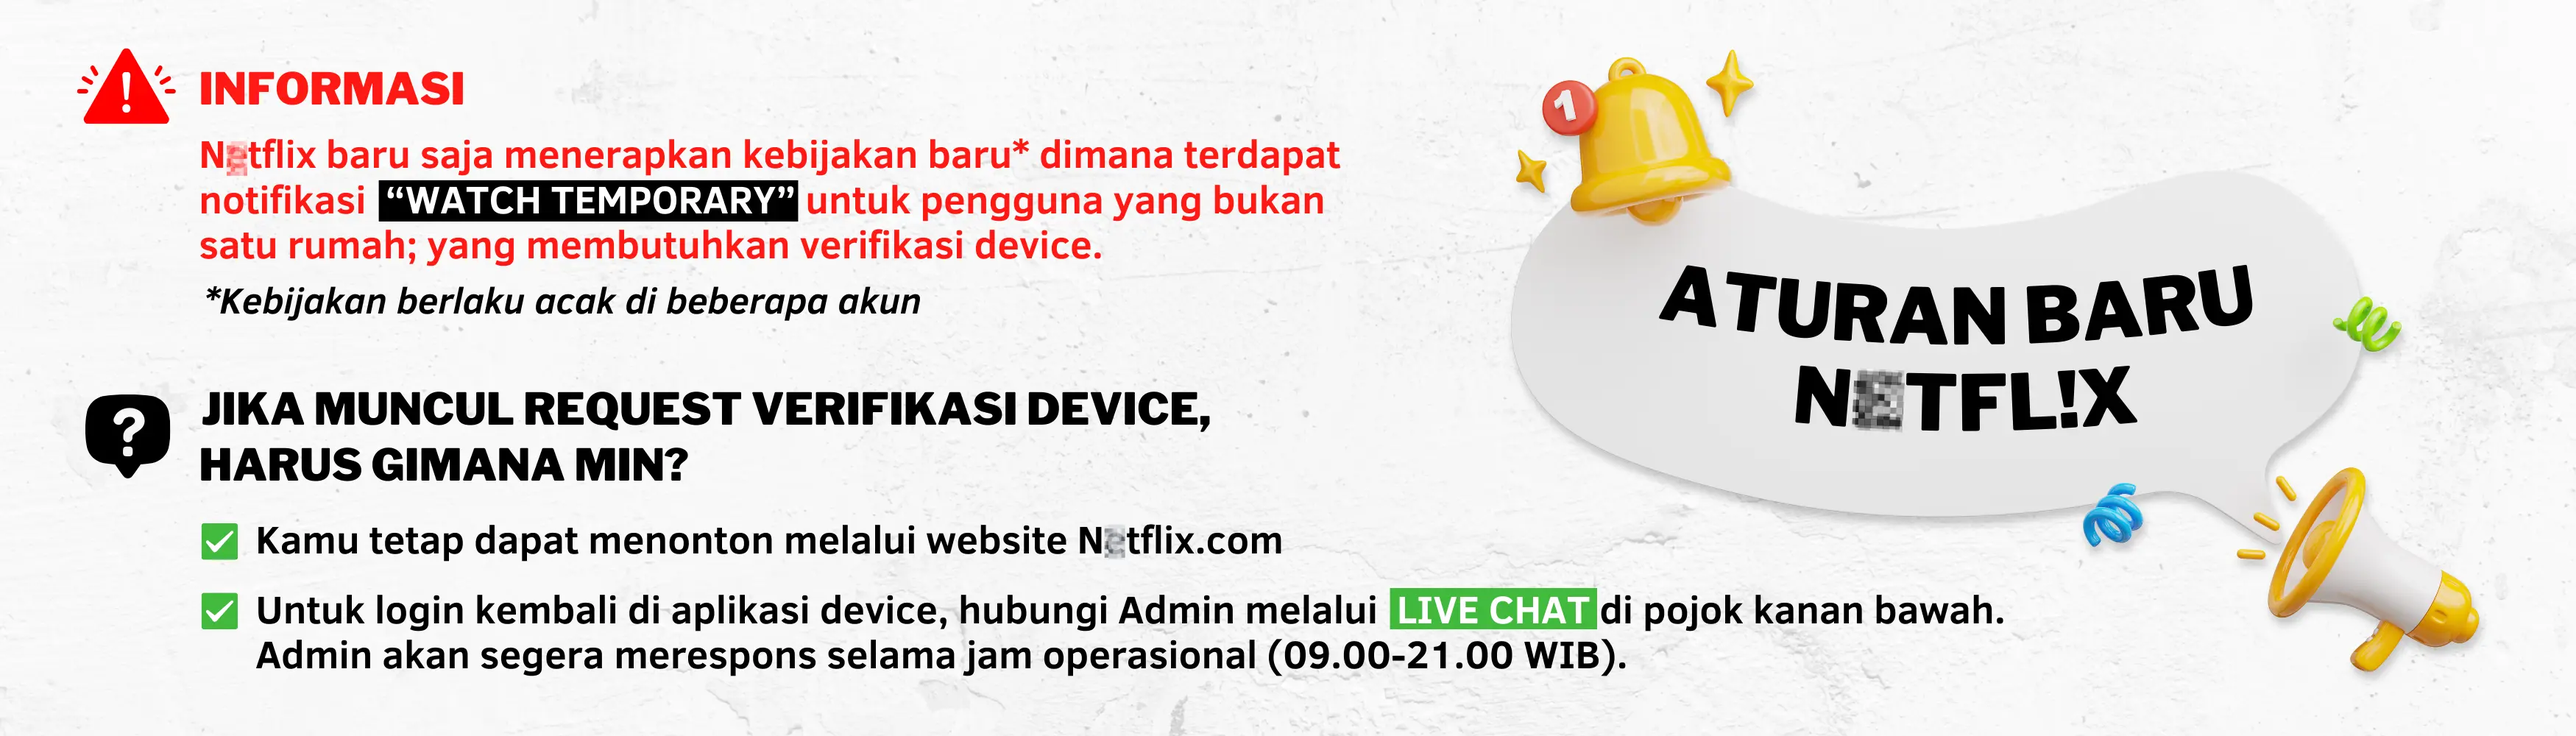
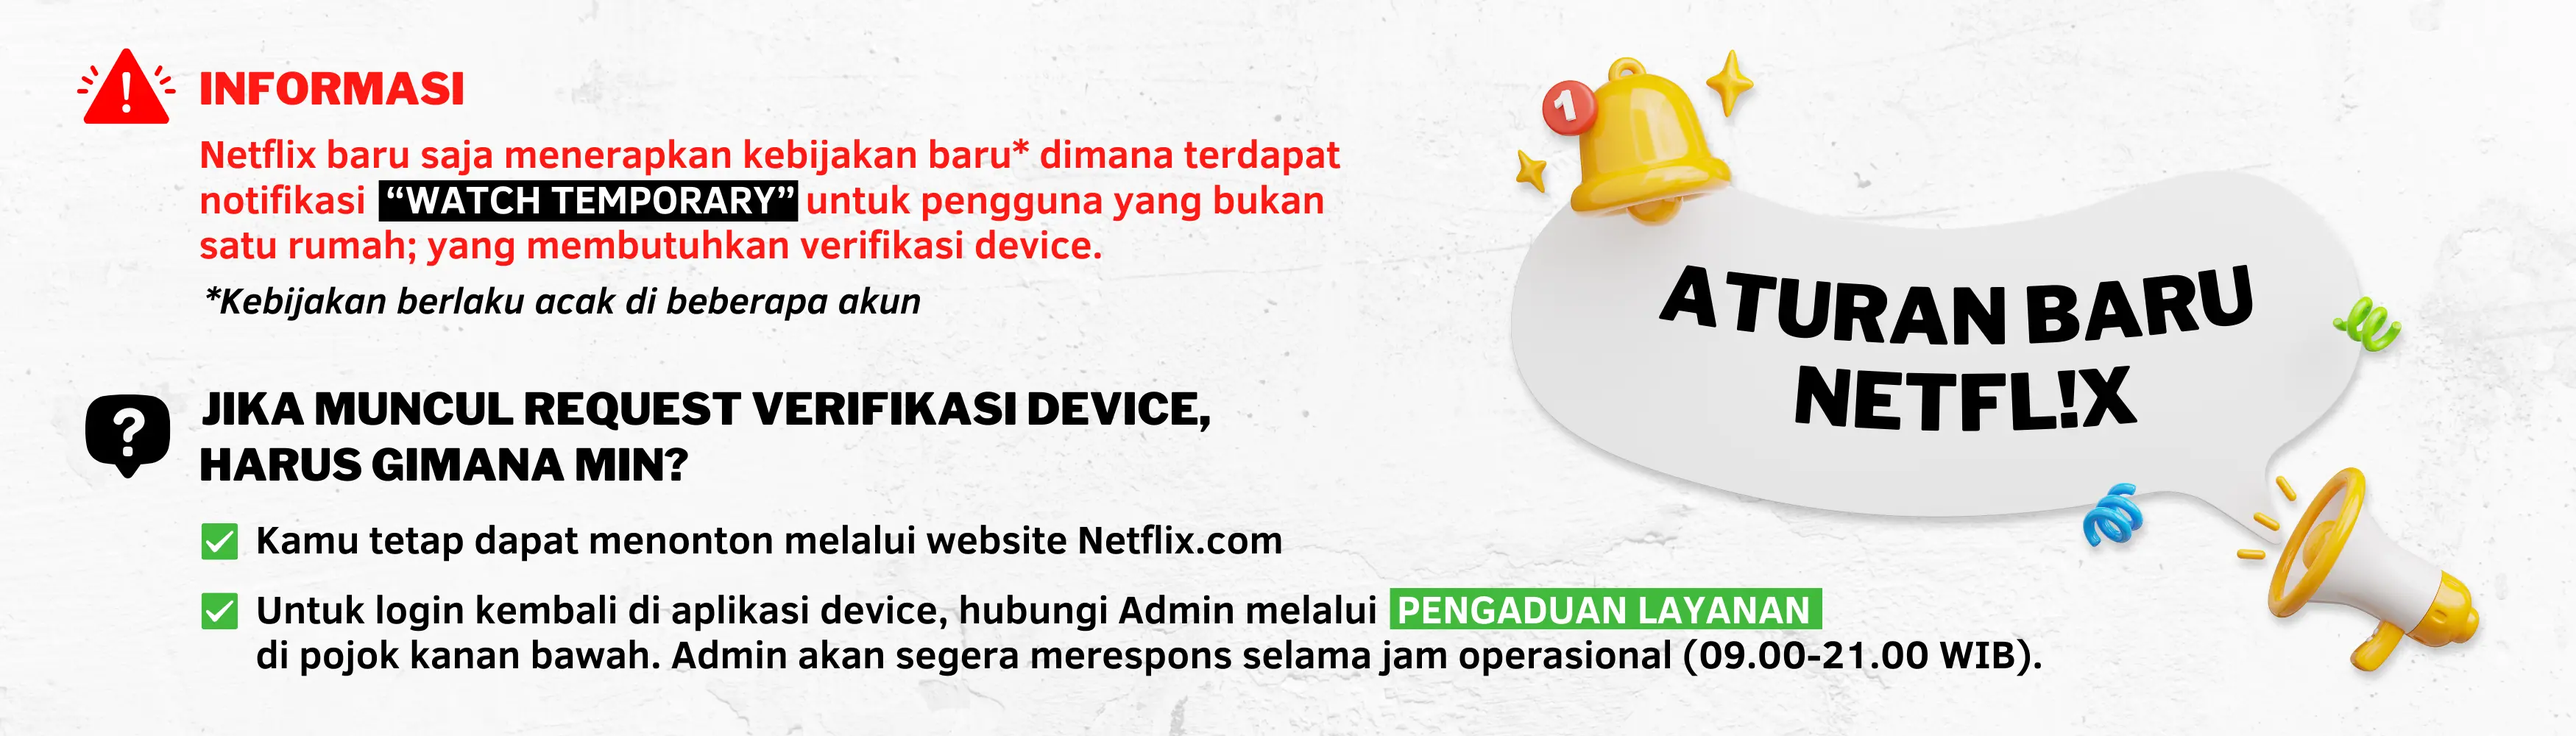
[M][LANDING-PAGE][IMP] take out live chat

diff --git a/components/mollecules/ModalPromo.vue b/components/mollecules/ModalPromo.vue
@@ -57,10 +57,10 @@ export default {
           id: 1,
           img: '/images/promo/election-mobile.webp',
         },
-        // {
-        //   id: 2,
-        //   img: '/images/promo/netflix-info-mobile.webp',
-        // },
+        {
+          id: 2,
+          img: '/images/promo/netflix-info-mobile.webp',
+        },
         // {
         //   id: 3,
         //   img: '/images/promo/semabar-mobile.webp',
@@ -71,10 +71,10 @@ export default {
           id: 1,
           img: '/images/promo/election.webp',
         },
-        // {
-        //   id: 2,
-        //   img: '/images/promo/netflix-info.webp',
-        // },
+        {
+          id: 2,
+          img: '/images/promo/netflix-info.webp',
+        },
         // {
         //   id: 3,
         //   img: '/images/promo/semabar.webp',

diff --git a/components/organisms/PromoSection/index.vue b/components/organisms/PromoSection/index.vue
@@ -90,10 +90,10 @@ export default {
           id: 1,
           img: '/images/promo/election-desktop.webp',
         },
-        // {
-        //   id: 2,
-        //   img: '/images/promo/netflix-info-desktop.webp',
-        // },
+        {
+          id: 2,
+          img: '/images/promo/netflix-info-desktop.webp',
+        },
         // {
         //   id: 3,
         //   img: '/images/promo/semabar-desktop.webp',
